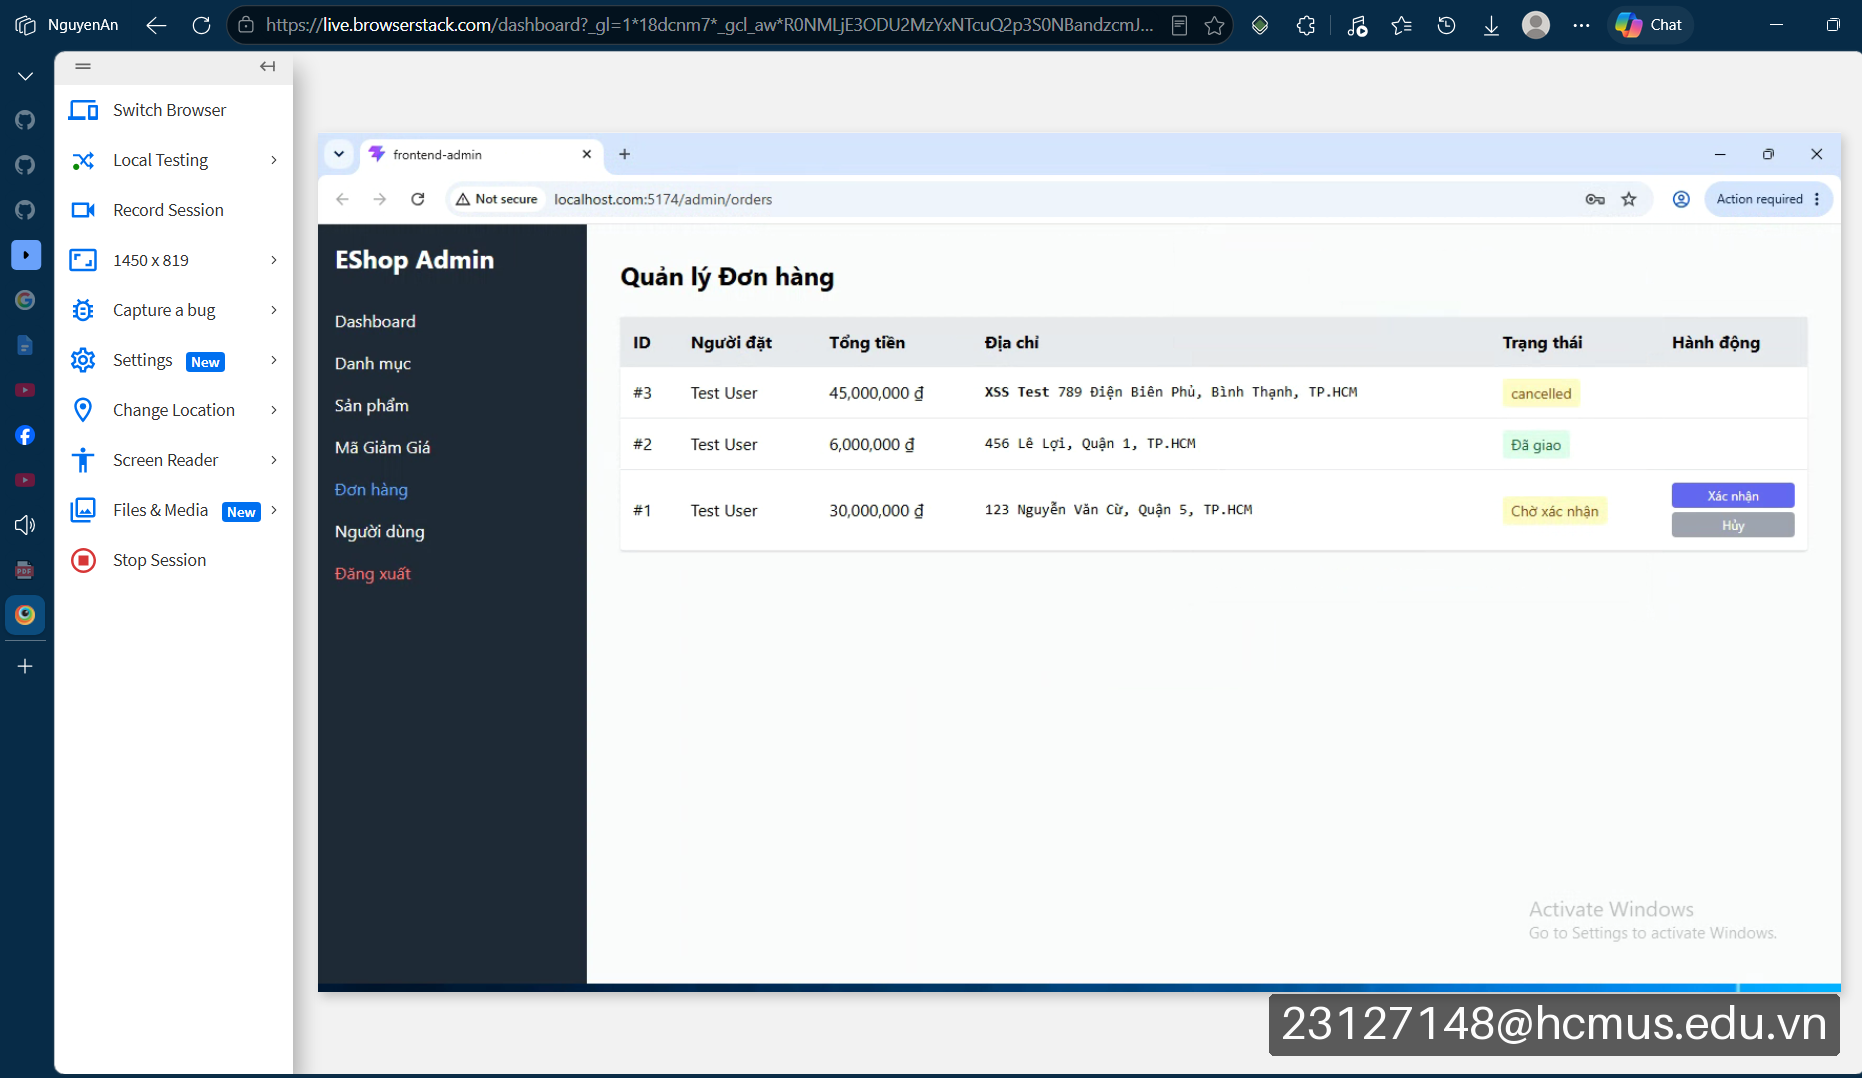
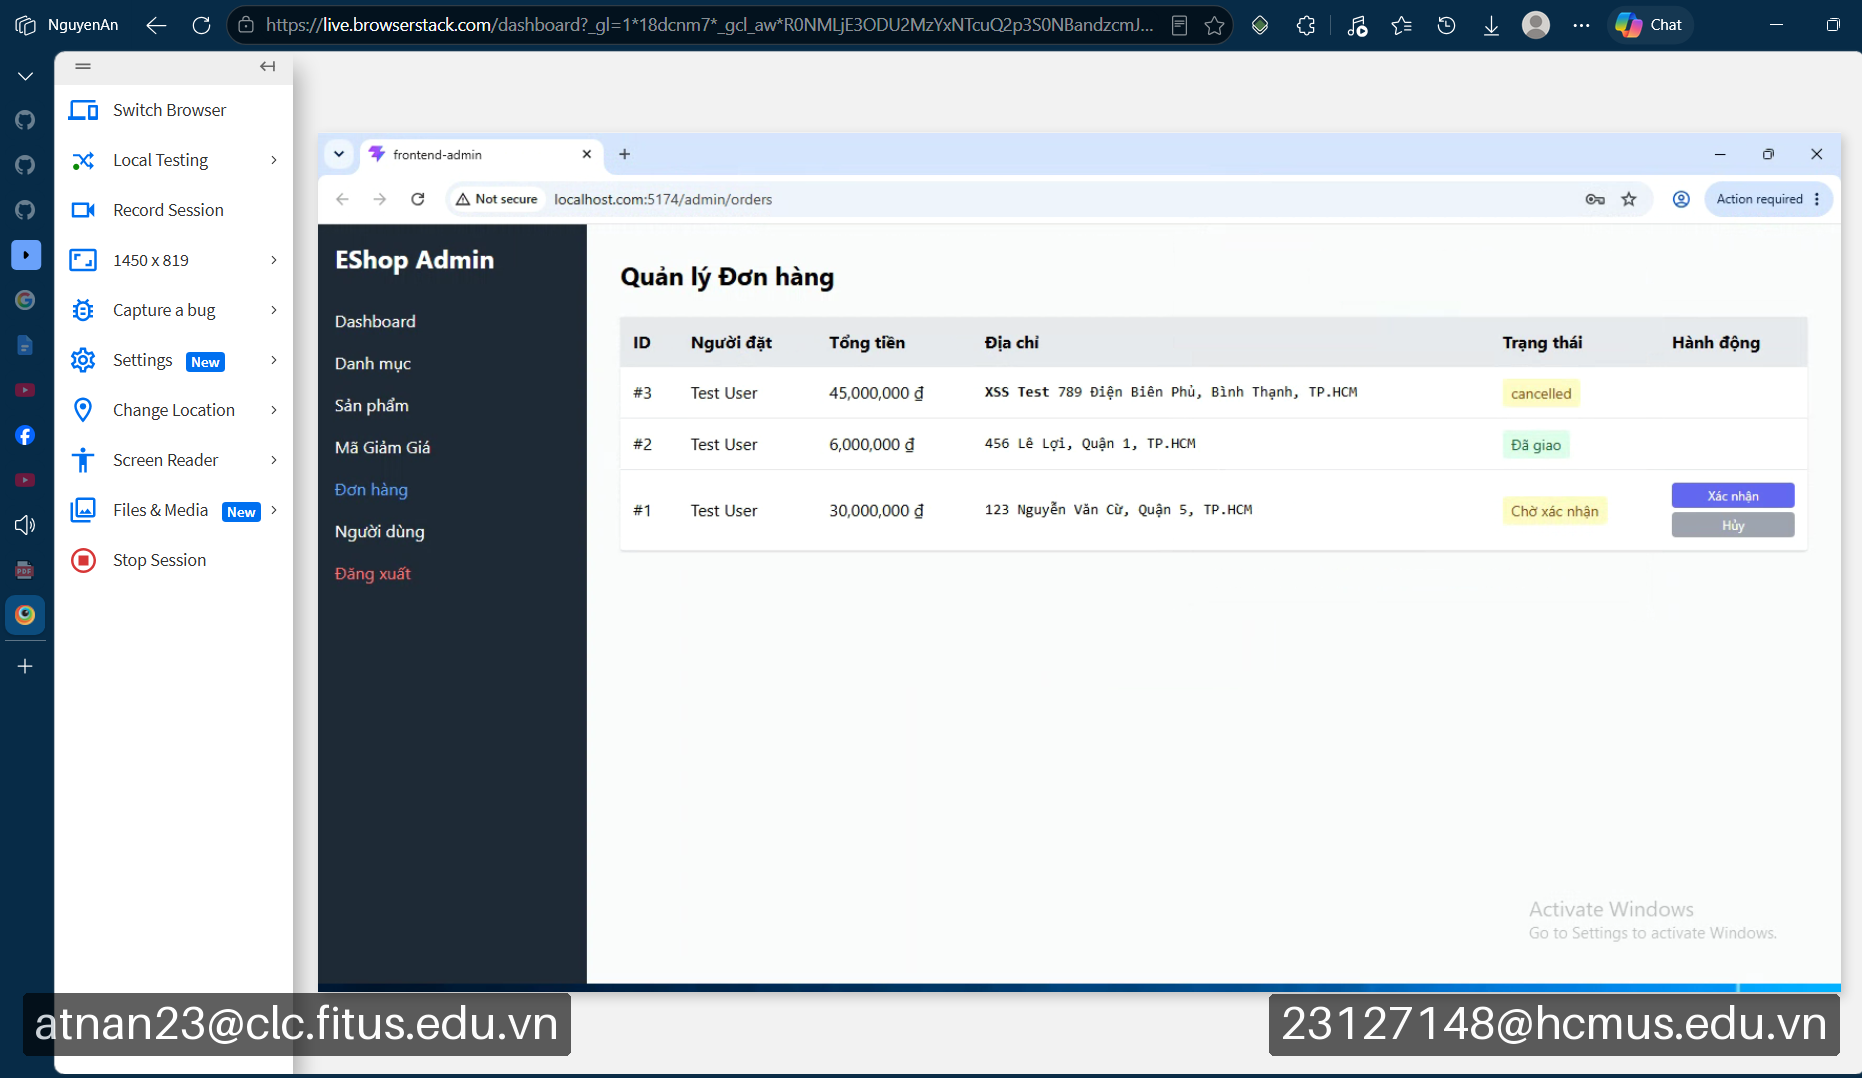
docs: Update mail fit clc + screenshot from Task03

Changed region(s): [[0.0, 0.9184, 0.3115, 0.9796]]

diff --git a/HW3/Task3_CrossPlatform/Report.md b/HW3/Task3_CrossPlatform/Report.md
@@ -4,7 +4,7 @@
 
 - **Họ và tên:** Ân Tiến Nguyên An
 - **Mã số sinh viên (MSSV):** 23127148
-- **Email:** 23127148@student.hcmus.edu.vn
+- **Email:** atnan23@clc.fitus.edu.vn
 
 ## Thiết lập môi trường và nền tảng kiểm thử
 
